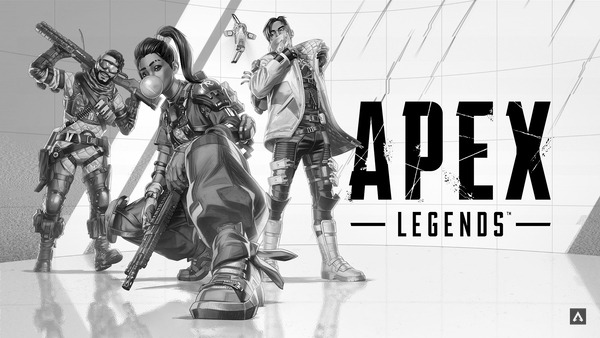
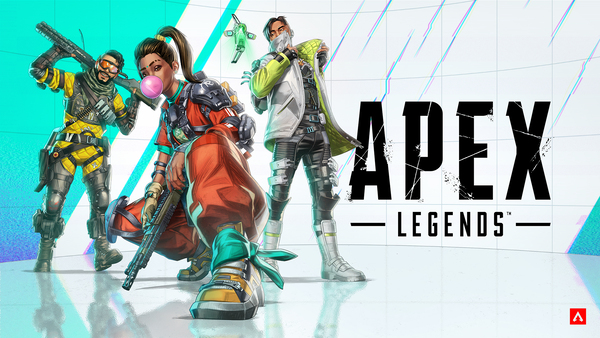
Add new background image to events page. Make text more visible with a semi-transparent background color over the background image.

diff --git a/assets/css/style.css b/assets/css/style.css
@@ -305,46 +305,59 @@ main {
 }
 
 /* Upcomig events page */
+
+main h1 {
+    margin-top: 20px;
+    margin-bottom: 20px;
+    text-align: center;
+}
+
 #container {
     display: flex;
     align-content: center;
     justify-content: center;
-    margin: 10%;
-    color: rgba(131, 58, 180, 1);
+    /* margin: 10%; */
+    background: url(../images/events/events.jpg) no-repeat center/cover;
+    color: white;
+    border: solid 4px #2E2E2E;
+    width: 100%;
+    margin-top: 20px;
     
 }
+
 
 #container div {
     align-items: center;
     margin: 10px 4px;
     width: 100%;
     text-align: center;
+    background-color: rgb(0, 0, 0, .2);
     
+
 }
 
-.container h3 , p {
-   
+.container h3, p {
+    
 }
 
 .warzone {
-    background-color: #000000;
+    /* background: url(../images/events/warzone.jpeg) no-repeat center/cover; */
 }
 
 .lol {
-    background-color: red;
+    /* background: url(../images/events/lol.jpeg) no-repeat center/cover; */
 }
 
 .fortnite {
-    background-color: orange;
+    /* background: url(../images/events/fortnite.jpg) no-repeat center/cover; */
 }
 
 .apex {
-    background: url(../images/events/apex.jpg);
+    /* background: url(../images/events/apex.jpg); */
 }
 
 .valorant {
-    background: url(../images/events/valorant.jpg);
-    
+    /* background: url(../images/events/valorant.jpg); */
 }
 
 

diff --git a/calendar.html b/calendar.html
@@ -33,6 +33,8 @@
 
     <!-- Main content -->
     <main>
+        <h1>Upcoming Team Events:</h1>
+        
         <div id="container">
             <div>div 1
                 <div class="first-week lol">
